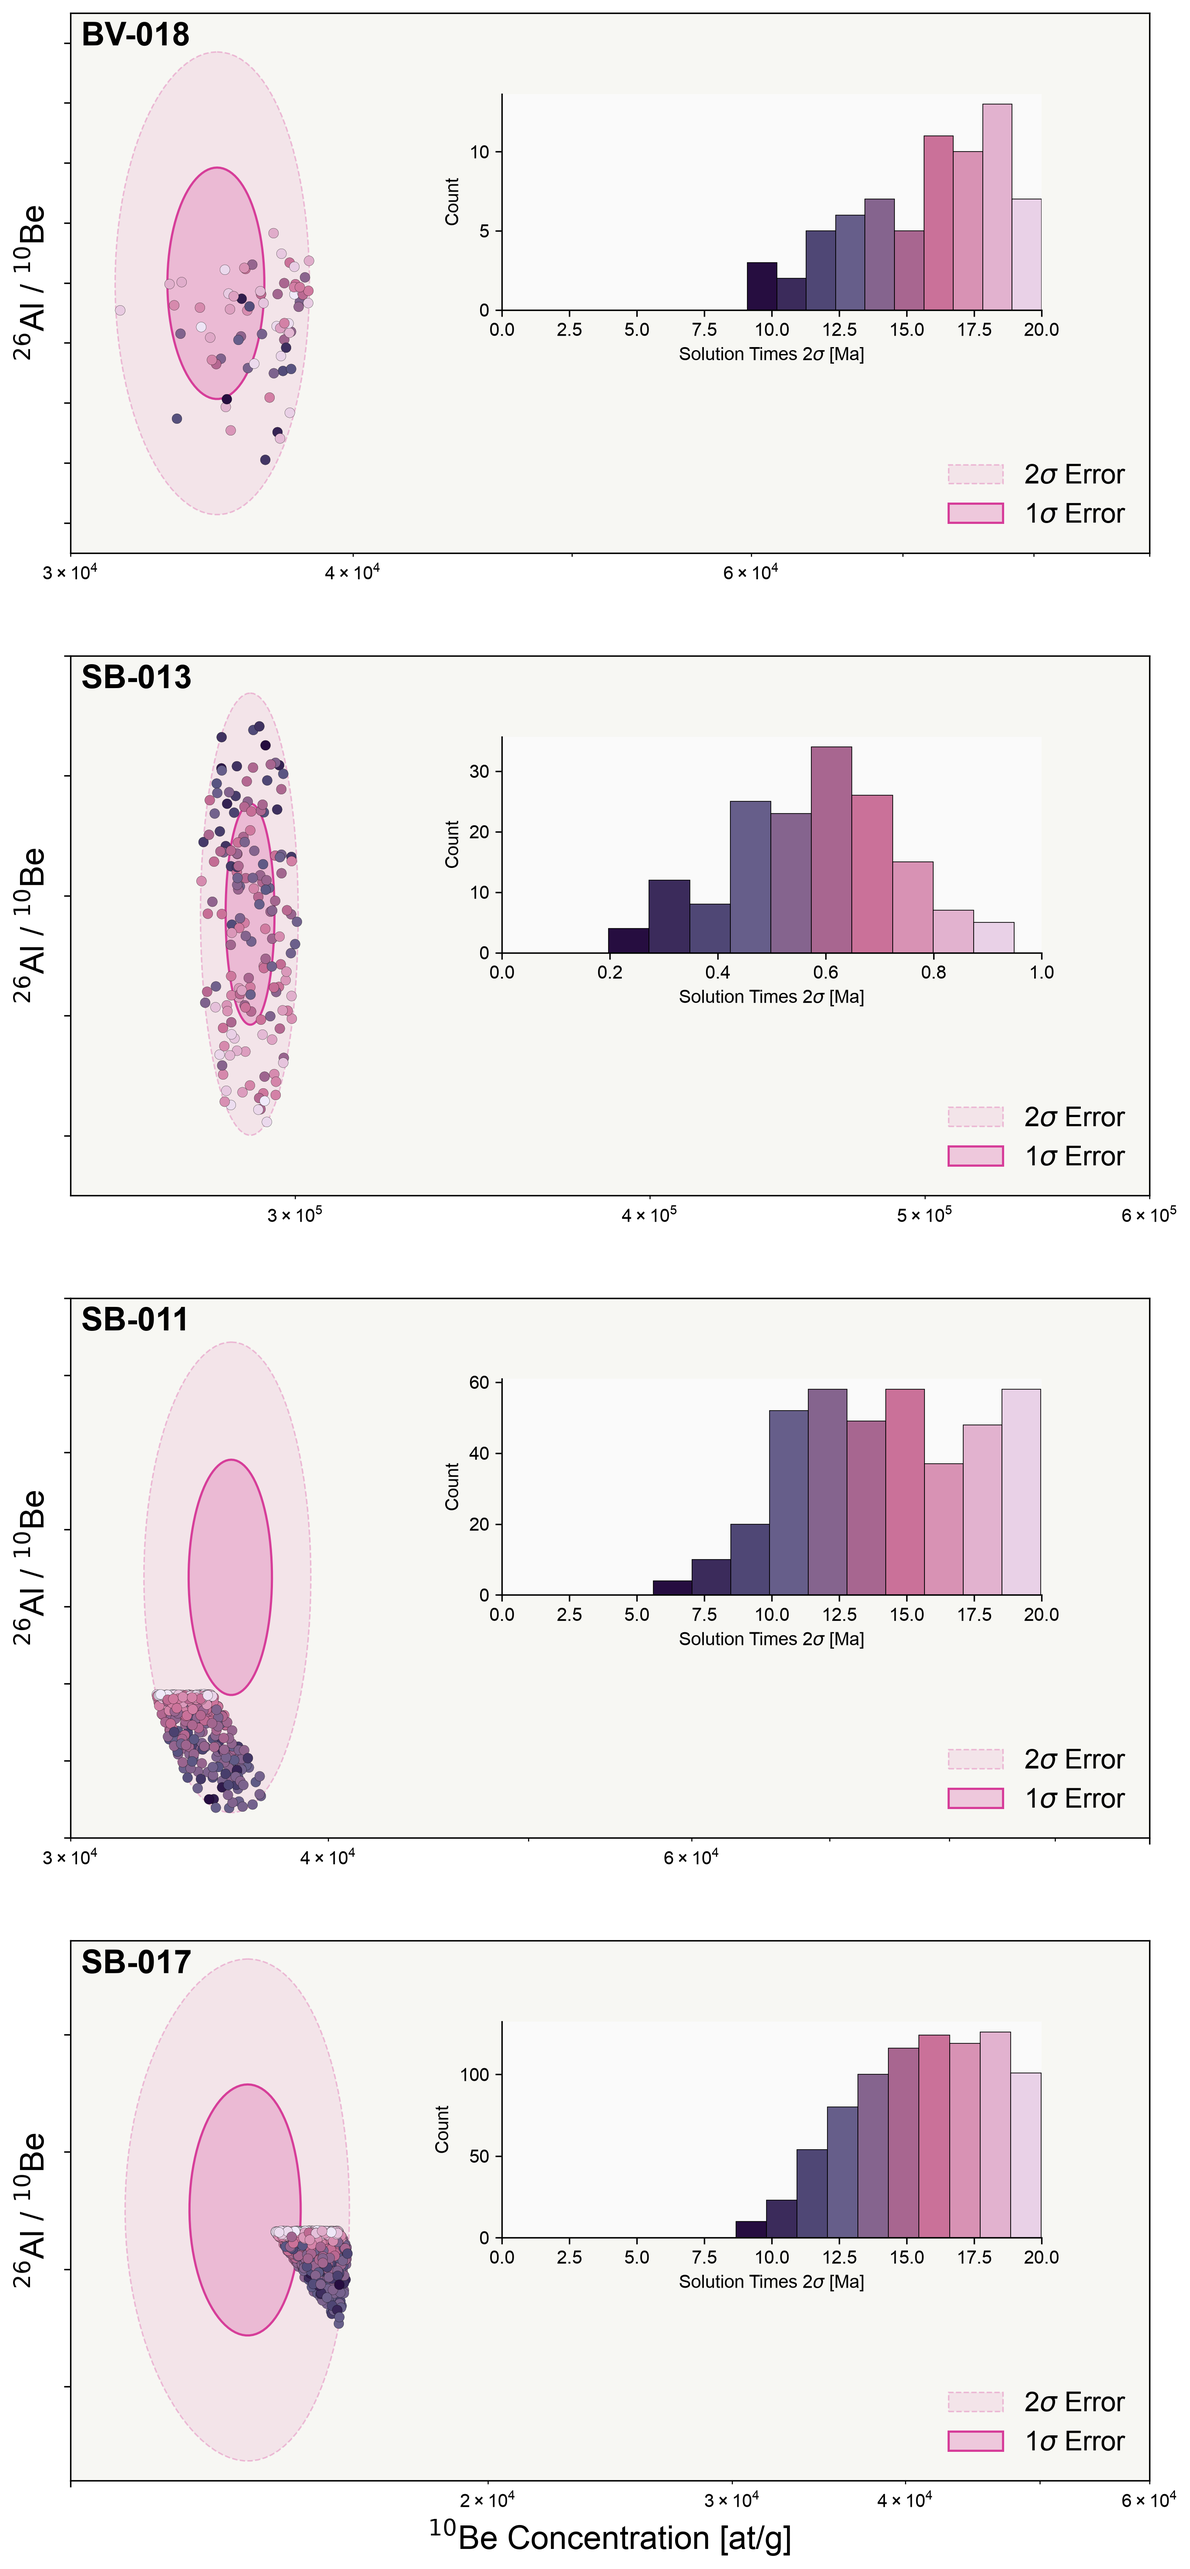
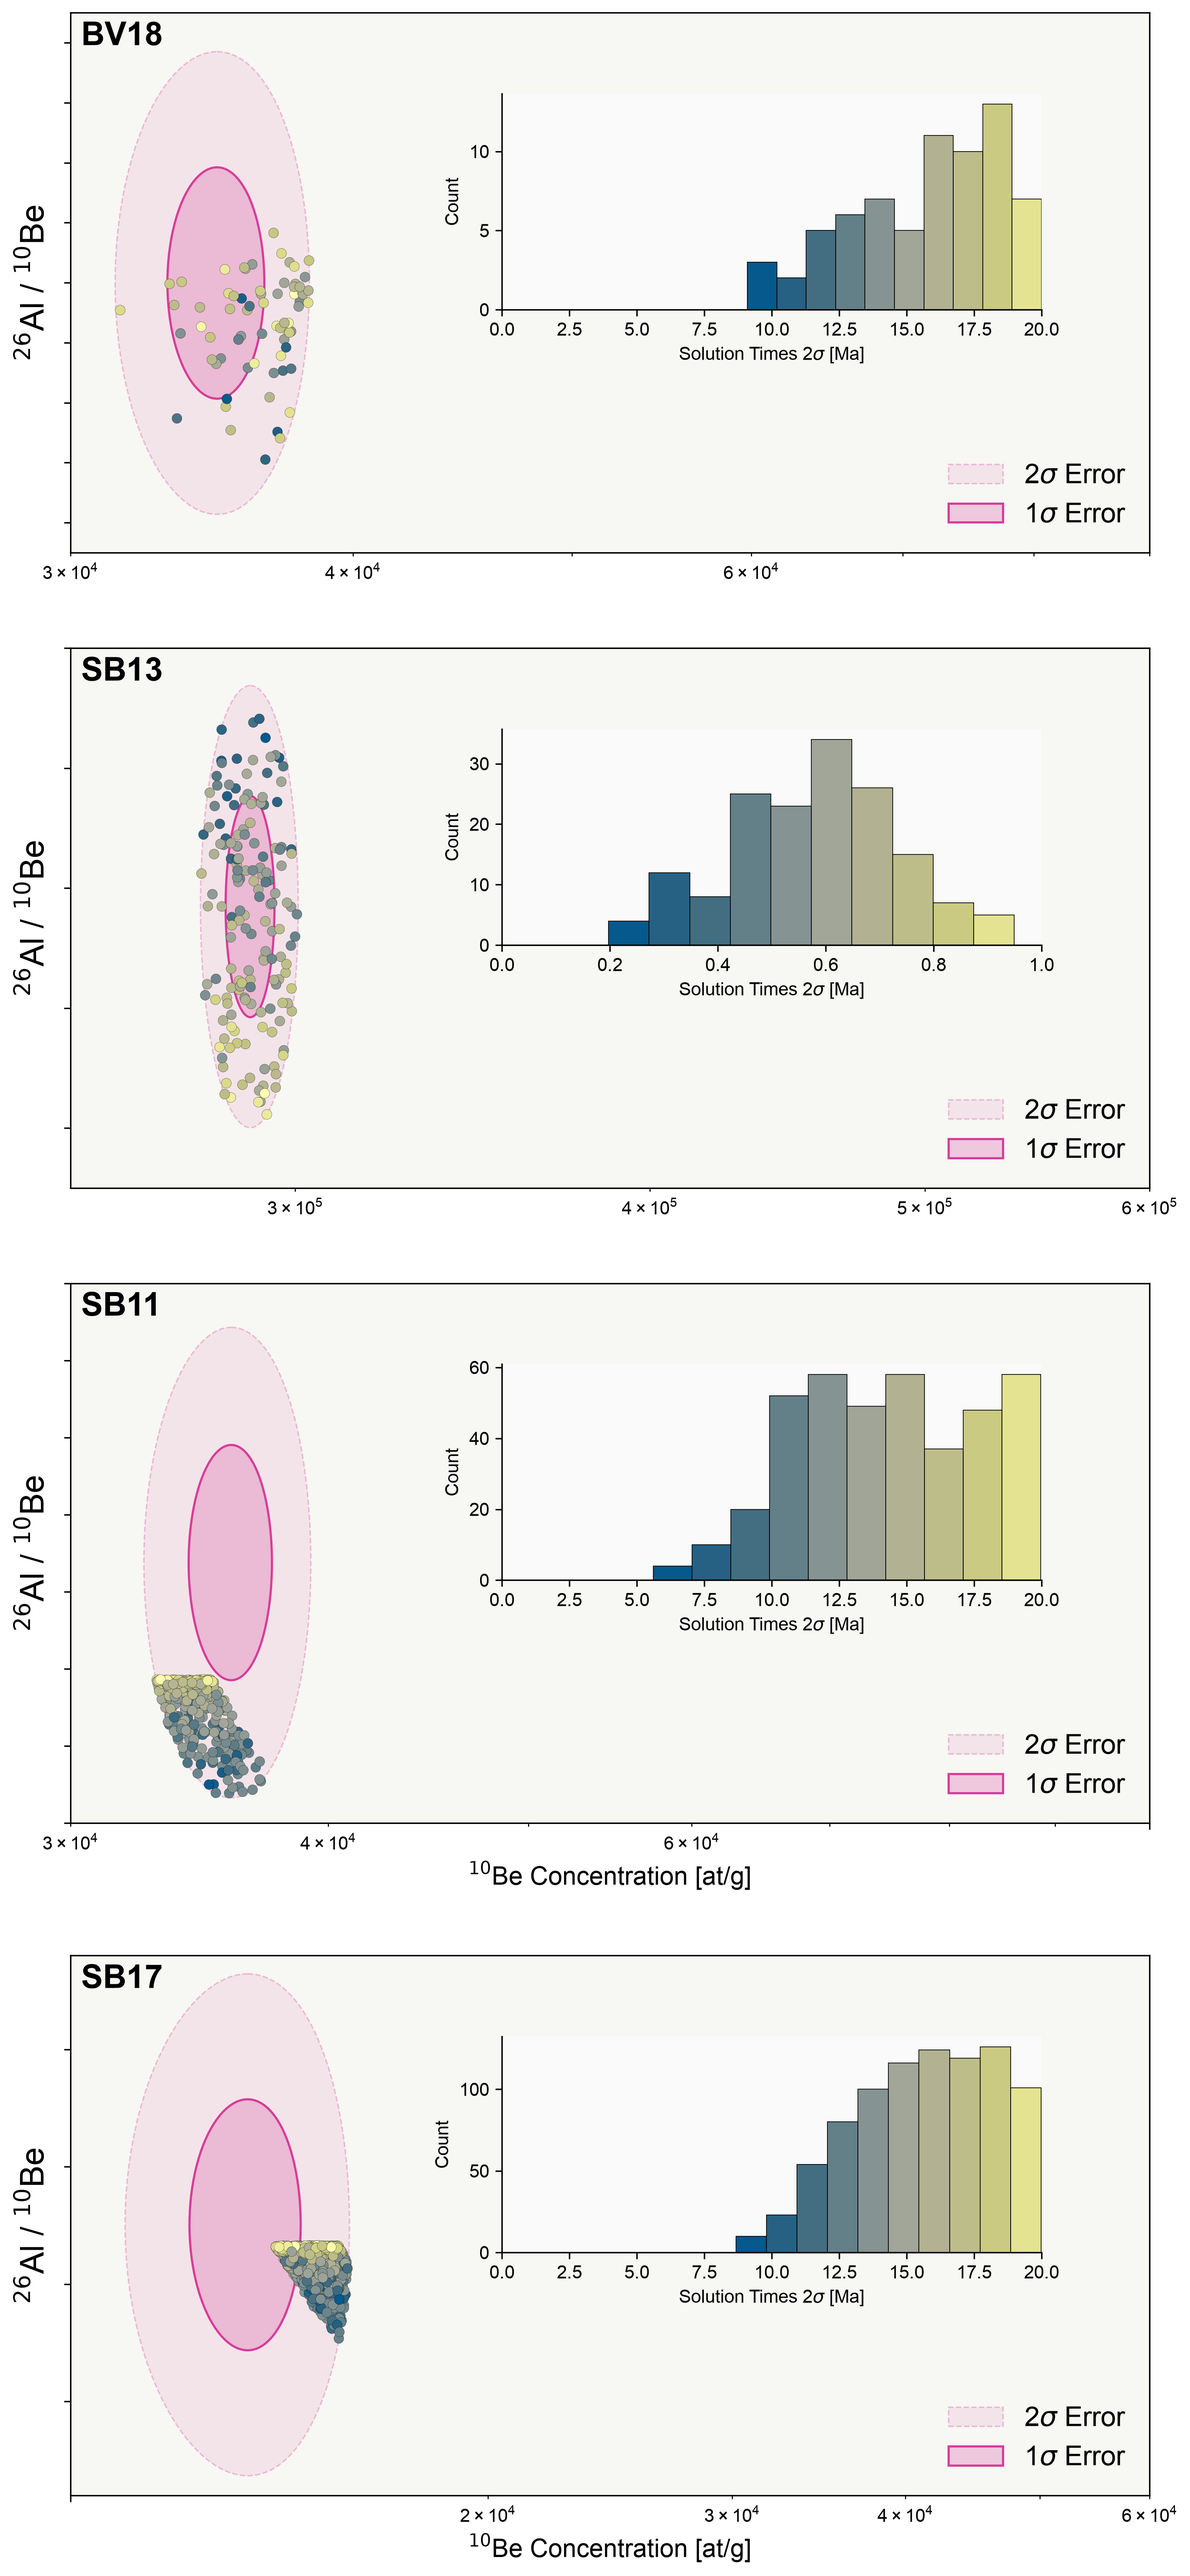
s1tos4

diff --git a/generate_figures/scripts/Fig3_S1_4_S10_Age_solutions.py b/generate_figures/scripts/Fig3_S1_4_S10_Age_solutions.py
@@ -22,7 +22,7 @@ os.makedirs(main_path+"/generate_figures/figures", exist_ok=True)
 plots_path = main_path+"/generate_figures/figures"
 
 #20 for Figure 3 and 40 for Figure S10
-limit = 40 #Ma
+limit = 20 #Ma
 x_lim = limit
 
 if x_lim != 20:
@@ -63,6 +63,7 @@ for i, sample_id in enumerate(samples_id):
     ].tolist()
 
     valid_deposition_rates = list(results_run.loc[results_run["Solution"], "Deposition rate [cm/year]"])
+    valid_erosion_rates = list(results_run.loc[results_run["Solution"], "Erosion rate [cm/year]"])
     valid_initial_n10 = results_run.loc[results_run["Solution"], 'Initial N10']
     valid_initial_ratio = results_run.loc[results_run["Solution"], "Initial ratio"]
 
@@ -70,6 +71,8 @@ for i, sample_id in enumerate(samples_id):
     false_initial_n10 = list(results_run.loc[~results_run["Solution"], 'Initial N10'])
     false_times_solution = list(results_run.loc[~results_run["Solution"], "Total Time [Ma]"])
     false_deposition_rates = list(results_run.loc[~results_run["Solution"], "Deposition rate [cm/year]"])
+    false_erosion_rates = list(results_run.loc[results_run["Solution"], "Deposition rate [cm/year]"])
+
 
     sample_color = [214, 61, 153]
 
@@ -119,7 +122,6 @@ for i, sample_id in enumerate(samples_id):
     else:
         ax.set_xlabel("$^{10}$Be Concentration [at/g]", fontsize=14, fontname="Arial")
 
-
     ax.set_ylabel("$^{26}$Al / $^{10}$Be", fontsize=18, fontname="Arial")
     ax.set_xscale("log")
     ax.set_facecolor("#F7F7F3")
@@ -130,14 +132,14 @@ for i, sample_id in enumerate(samples_id):
                   handler_map={Ellipse: HandlerEllipse()})
         sc = ax.scatter(range_age_valid_final_n10, range_age_valid_final_ratio, s=10, c=range_age_valid_times_solution,
                         cmap=cm.nuuk, edgecolor="black", linewidth=0.1)
-        ax.annotate(f"{sample_id}", (0.8, 0.9), xycoords="axes fraction",
+        ax.annotate(f"{sample_id[:2]+sample_id[-2:]}", (0.86, 0.9), xycoords="axes fraction",
                     fontweight="bold", fontsize=14, fontname="Arial")
     else:
         ax.legend(loc="lower right", framealpha=1, fontsize=15, frameon=False,
                   handler_map={Ellipse: HandlerEllipse()})
         sc = ax.scatter(range_age_valid_final_n10, range_age_valid_final_ratio, s=30, c=range_age_valid_times_solution,
                         cmap=cm.nuuk, edgecolor="black", linewidth=0.1)
-        ax.annotate(f"{sample_id}", (0.01, 0.94), xycoords="axes fraction",
+        ax.annotate(f"{sample_id[:2]+sample_id[-2:]}", (0.01, 0.94), xycoords="axes fraction",
                     fontweight="bold", fontsize=18, fontname="Arial")
 
     if sample_id == "SB-011":
@@ -174,26 +176,21 @@ for i, sample_id in enumerate(samples_id):
     hist_ax.spines["top"].set_visible(False)
     hist_ax.spines["right"].set_visible(False)
 
-fig_name = f"Fig3_Solutions_Profile_Ages_D{density}"
 
-if x_lim != 20:
-    fig_name_3 = f"/supporting_figures/FigS10_Full_Solutions_Profile_Ages_D{density}"
-    fig.savefig(f"{plots_path}/{fig_name_3}.png", dpi=300, bbox_inches="tight")
-else:
-    fig.savefig(f"{plots_path}/{fig_name}.png", dpi=300, bbox_inches="tight")
-    fig.savefig(f"{plots_path}/SVG/SVG_{fig_name}.svg", format="svg", bbox_inches="tight")
 #
 ####----EXPLORATION PARAMETERS-SUPPORTING MATERIAL---------######
-    fig2, ((ax1,ax2,ax3),(ax4,ax5,ax6)) = plt.subplots(2,3,figsize=(12, 6), constrained_layout=True)
-
-    fig2.set_facecolor("#EBEBEB")
-    fig2.suptitle(f"Sample: {sample_id} | Starting from: {reference_sample }\n ρ = {density}", fontsize=18)
+    if sample_id == "BV-018":
+        fig2, ((ax1,ax2,ax3,ax4),(ax5,ax6,ax7,ax8)) = plt.subplots(2,4,figsize=(12, 6), constrained_layout=True)
+    else:
+        fig2, ((ax1, ax2, ax3), (ax4, ax5, ax6)) = plt.subplots(2, 3, figsize=(12, 6), constrained_layout=True)
+    fig2.set_facecolor("#FAFAFA")
+    fig2.suptitle(f"Sample: {sample_id[:2]+sample_id[-2:]} | ρ = {density} g/cm$^{3}$", fontsize=14, x=0.01, ha='left')
     ###Histogram for ages
     all_ages_sampled = []
     all_ages_sampled.extend(false_times_solution)
     all_ages_sampled.extend(valid_times_solution)
 
-    facecolor_axes = "#EBEBEB"
+    facecolor_axes = "#FAFAFA"
     sampled_color = "#E4CAA0"
     false_color = "#DCE4A0"
     valid_color = "#BAE4A0"
@@ -202,10 +199,12 @@ else:
     ax1.hist(all_ages_sampled, bins=20, edgecolor="black", linewidth=0.5, color=sampled_color, label="Sampled ")
     ax1.hist(false_times_solution, bins=20, edgecolor="black", linewidth=0.5, color= false_color, label="No solution")
     ax1.hist(valid_times_solution, bins=20, edgecolor="black", linewidth=0.5, color=valid_color, label="Solution found")
+    ax1.annotate("A", (0.009, 0.99), xycoords="axes fraction",
+                fontweight="bold", fontsize=16, fontname="Arial")
 
-    ax1.set_xlabel(r"Tentative Time [Ma]", fontsize=8)
+    ax1.set_xlabel(r"Tentative Burial Time [Ma]", fontsize=10)
     ax1.set_ylabel("Count", fontsize=10)
-    ax1.tick_params(axis="both", which="major", labelsize=8)
+    ax1.tick_params(axis="both", which="major", labelsize=10)
     ax1.spines["top"].set_visible(False)
     ax1.spines["right"].set_visible(False)
 
@@ -222,10 +221,11 @@ else:
 
     ax2.vlines(0.0002,0,100,linewidth=0.7,color="black", linestyle="--", label="Dep rate data")
     ax2.vlines(0.001,0,100,linewidth=0.7,color="black", linestyle="--", label="Dep rate data")
-
-    ax2.set_xlabel(r"Deposition rate [cm/year]", fontsize=8)
+    ax2.annotate("B", (0.009, 0.99), xycoords="axes fraction",
+                 fontweight="bold", fontsize=16, fontname="Arial")
+    ax2.set_xlabel(r"Deposition rate [cm/year]", fontsize=10)
     ax2.set_ylabel("Count", fontsize=10)
-    ax2.tick_params(axis="both", which="major", labelsize=8)
+    ax2.tick_params(axis="both", which="major", labelsize=10)
     ax2.spines["top"].set_visible(False)
     ax2.spines["right"].set_visible(False)
     ax2.semilogx()
@@ -239,7 +239,8 @@ else:
     ax3.hist(all_initial_n10, bins=30, edgecolor="black", linewidth=0.5, color=sampled_color, label="Sampled")
     ax3.hist(false_initial_n10,bins=30,edgecolor="black",linewidth=0.5,color=false_color, label="No solution")
     ax3.hist(valid_initial_n10,bins=30,edgecolor="black",linewidth=0.5,color=valid_color, alpha=0.7, label="Solution found")
-
+    ax3.annotate("C", (0.009, 0.99), xycoords="axes fraction",
+                 fontweight="bold", fontsize=16, fontname="Arial")
     ax3.set_xlabel(r"Initial $^{10}$Be Concentration [atoms/g]", fontsize=10)
     ax3.set_ylabel("Count", fontsize=10)
     ax3.tick_params(axis="both", which="major", labelsize=8)
@@ -250,13 +251,15 @@ else:
     ##Scatter for deposition and time
 
     ax4.set_facecolor(facecolor_axes)
-    ax4.scatter(valid_deposition_rates,valid_times_solution,linewidth=0.5,edgecolors="black",s=30,c="#EAFAF4")
+    ax4.scatter(valid_deposition_rates,valid_times_solution,linewidth=0.2,edgecolors="black",s=20,c="#EAFAF4")
     ax4.set_xlabel(r"Deposition rate [cm/year]", fontsize=10)
     ax4.set_ylabel("Age [Myr]", fontsize=10)
-    ax4.tick_params(axis="both", which="major", labelsize=8)
+    ax4.tick_params(axis="both", which="major", labelsize=10)
     ax4.spines["top"].set_visible(False)
     ax4.spines["right"].set_visible(False)
     ax4.semilogx()
+    ax4.annotate("D", (0.009, 0.99), xycoords="axes fraction",
+                 fontweight="bold", fontsize=16, fontname="Arial")
 
     ##Scatter initial and times
     all_ratio = []
@@ -264,23 +267,55 @@ else:
     all_ratio.extend(false_initial_ratio)
 
     ax5.set_facecolor(facecolor_axes)
-    ax5.scatter(valid_initial_n10,valid_times_solution,edgecolors="black",s=30,c="#EAFAF4",linewidth=0.5)
+    ax5.scatter(valid_initial_n10,valid_times_solution,edgecolors="black",s=20,c="#EAFAF4",linewidth=0.2)
     ax5.set_xlabel(r"Initial $^{10}$Be Concentration [atoms/g]", fontsize=10)
     ax5.set_ylabel("Age [Myr]", fontsize=10)
-    ax5.tick_params(axis="both", which="major", labelsize=8)
+    ax5.tick_params(axis="both", which="major", labelsize=10)
     ax5.spines["top"].set_visible(False)
     ax5.spines["right"].set_visible(False)
     ax5.semilogx()
+    ax5.annotate("E", (0.009, 0.99), xycoords="axes fraction",
+                 fontweight="bold", fontsize=16, fontname="Arial")
     plot_forbiden_zone(all_initial_n10,all_ratio,ax6)
 
+    if sample_id == "BV-018":
+        ax7.set_facecolor(facecolor_axes)
+        ax7.scatter(valid_initial_n10, valid_times_solution, edgecolors="black", s=20, c="#EAFAF4", linewidth=0.2)
+        ax7.set_xlabel(r"Initial $^{10}$Be Concentration [atoms/g]", fontsize=10)
+        ax7.set_ylabel("Age [Myr]", fontsize=10)
+        ax7.tick_params(axis="both", which="major", labelsize=10)
+        ax7.spines["top"].set_visible(False)
+        ax7.spines["right"].set_visible(False)
+        ax7.semilogx()
+        ax7.annotate("G", (0.009, 0.99), xycoords="axes fraction",
+                     fontweight="bold", fontsize=16, fontname="Arial")
+
+        ax8.set_facecolor(facecolor_axes)
+        ax8.scatter(valid_initial_n10, valid_times_solution, edgecolors="black", s=20, c="#EAFAF4", linewidth=0.2)
+        ax8.set_xlabel(r"Initial $^{10}$Be Concentration [atoms/g]", fontsize=10)
+        ax8.set_ylabel("Age [Myr]", fontsize=10)
+        ax8.tick_params(axis="both", which="major", labelsize=10)
+        ax8.spines["top"].set_visible(False)
+        ax8.spines["right"].set_visible(False)
+        ax8.semilogx()
+        ax8.annotate("H", (0.009, 0.99), xycoords="axes fraction",
+                     fontweight="bold", fontsize=16, fontname="Arial")
+
     ###plot info###
-    fig_name_2 = f"FigS{i+1}_Parameters_Sampling_[{sample_id}_D_{density}]_"
+    fig_name_2 = f"FigS{i+1}_Parameters_Sampling_{sample_id}_D_{density}"
 
     fig_dir_2 = f"{plots_path}/supporting_figures/{fig_name_2}"
     print(fig_dir_2)
     fig2.savefig(f"{fig_dir_2}.png", dpi=300, bbox_inches="tight")
 
+fig_name = f"Fig3_Solutions_Profile_Ages_D{density}"
 
+if x_lim != 20:
+    fig_name_3 = f"/supporting_figures/FigS10_Full_Solutions_Profile_Ages_D{density}"
+    fig.savefig(f"{plots_path}/{fig_name_3}.png", dpi=300, bbox_inches="tight")
+else:
+    fig.savefig(f"{plots_path}/{fig_name}.png", dpi=300, bbox_inches="tight")
+    fig.savefig(f"{plots_path}/SVG/SVG_{fig_name}.svg", format="svg", bbox_inches="tight")
 
 if plot_trajectories:
     print("Plotting trajectories")

diff --git a/support/aux_functions/forbiden_zone.py b/support/aux_functions/forbiden_zone.py
@@ -12,8 +12,11 @@ def plot_forbiden_zone(all_initial_c10, all_ratio,ax):
     black_x, black_y = lines_between[0][0:50000], lines_between[1][0:50000]
     blue_x, blue_y = lines_between[0][50000:100000], lines_between[1][50000:100000]
 
-    ax.plot(black_x, black_y, '.', color='black', markersize=0.1, label='Constant Exposure')
-    ax.plot(blue_x, blue_y, '.', color='black', markersize=0.1, label='Steady Erosion')
+    ax.plot(black_x, black_y, '.', color='gray', markersize=0.01, label='Constant Exposure')
+    ax.plot(blue_x, blue_y, '.', color='gray', markersize=0.01, label='Steady Erosion')
+    ax.annotate("F", (0.009, 1.01), xycoords="axes fraction",
+                 fontweight="bold", fontsize=16, fontname="Arial")
+    ax.set_facecolor = '#EBEBEB"'
     black_order = np.argsort(black_x)
 
     blue_order = np.argsort(blue_x)
@@ -39,8 +42,10 @@ def plot_forbiden_zone(all_initial_c10, all_ratio,ax):
             outside_x.append(N10)
             outside_y.append(ratio)
 
-    ax.scatter(inside_x, inside_y, color='green',label='within bounds')
+    ax.scatter(inside_x, inside_y, color="#EAFAF4",label='within bounds',edgecolor='black',linewidth=0.2,s=10)
     ax.scatter(outside_x, outside_y, color='red',label='outside bounds')
+    ax.set_xlabel("$^{10}$Be Concentration [at/g]", fontsize=10, fontname="Arial")
+    ax.set_ylabel("$^{26}$Al/$^{10}$Be", fontsize=10, fontname="Arial")
 
     ax.set_xlim(1e4, 1e6)
     ax.set_ylim(3.5, 8)
